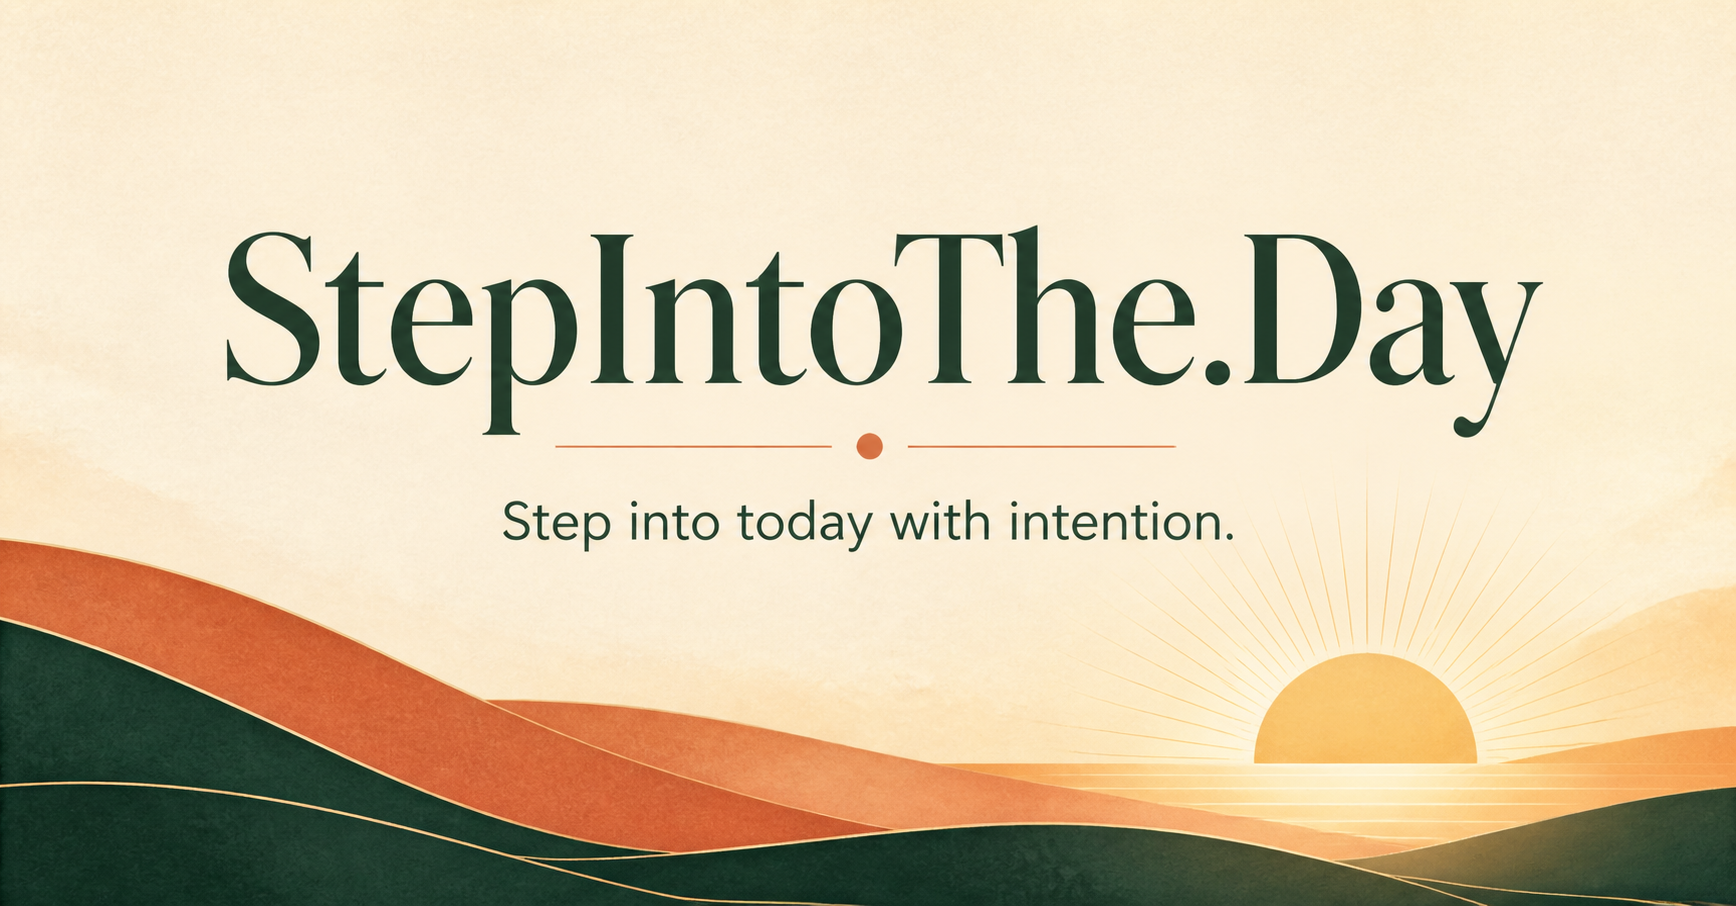
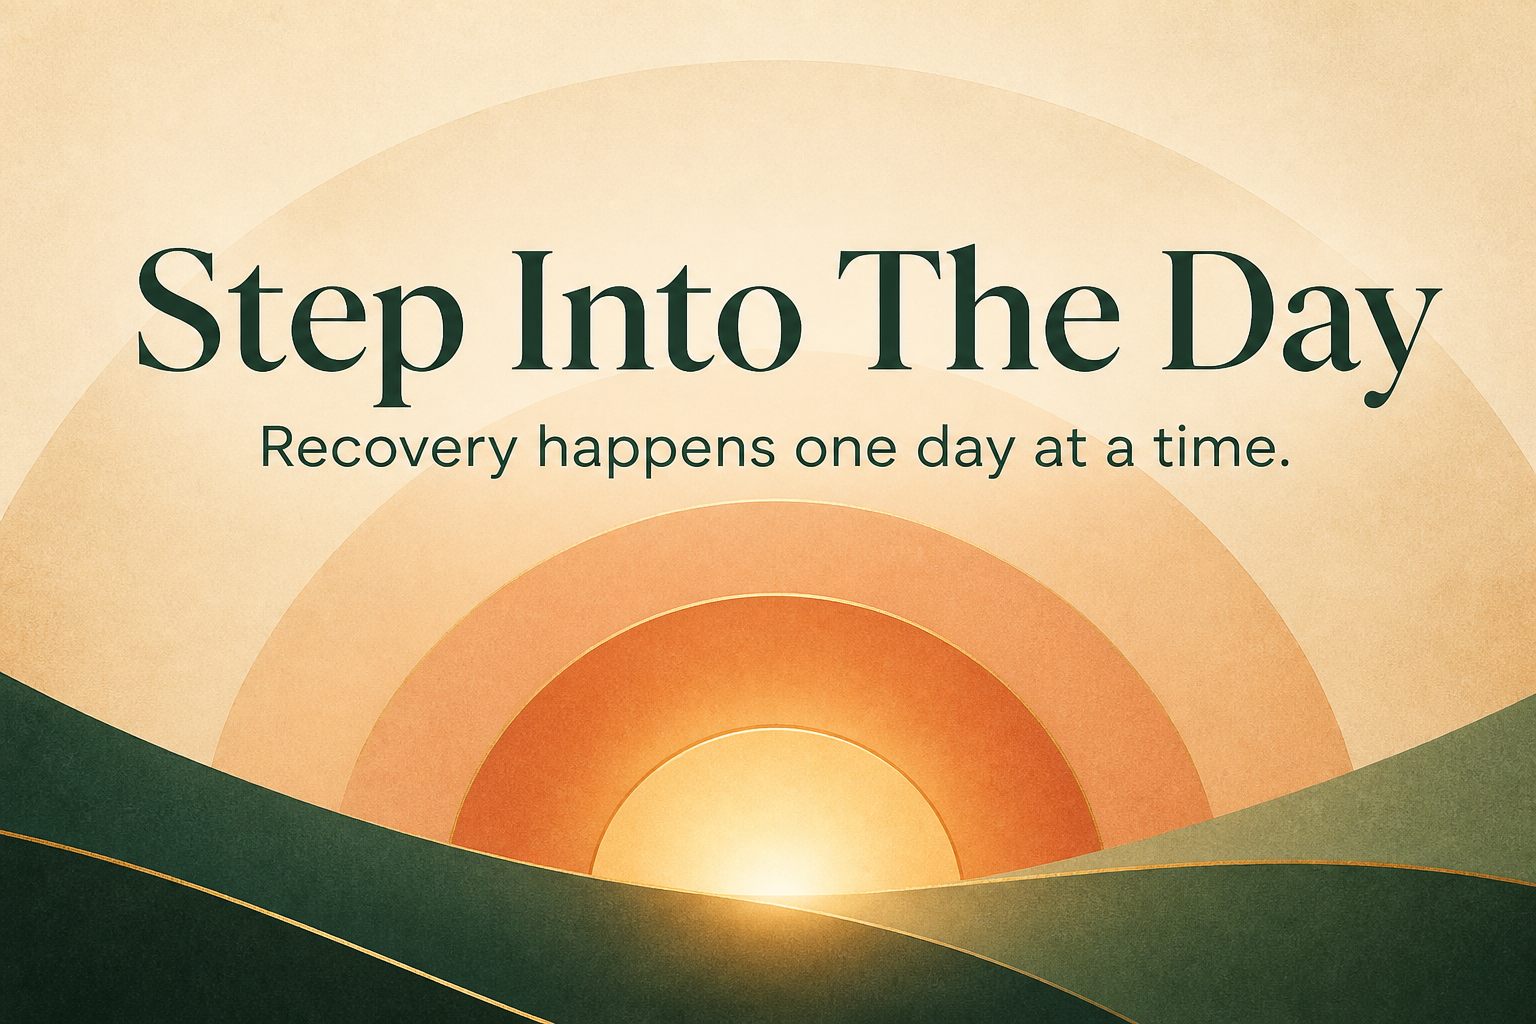
Refocus site for Step Into The Day AA group

diff --git a/app/page.tsx b/app/page.tsx
@@ -1,39 +1,93 @@
-import { ArrowRight, Check, Coffee, Moon, Sparkles, Sun } from 'lucide-react';
+import { ArrowRight, Coffee, Heart, ShieldCheck, Sun, Users } from 'lucide-react';
 
-const steps = [
-  { icon: Sun, label: 'Morning', title: 'Choose your direction', copy: 'Name the one thing that would make today feel meaningful.' },
-  { icon: Coffee, label: 'Midday', title: 'Protect your attention', copy: 'Make space for focused work, a real break, and the people who matter.' },
-  { icon: Moon, label: 'Evening', title: 'Close the loop', copy: 'Notice what moved forward and let the rest wait for tomorrow.' },
+const welcomePoints = [
+  {
+    icon: Heart,
+    title: 'Come as you are',
+    copy: 'There is no judgment and no requirement to have everything figured out. The only requirement for membership is a desire to stop drinking.',
+  },
+  {
+    icon: Users,
+    title: 'Share or simply listen',
+    copy: 'You are welcome to introduce yourself, share what is on your mind, or quietly listen. There is no pressure to speak.',
+  },
+  {
+    icon: ShieldCheck,
+    title: 'Anonymity and respect',
+    copy: 'Who you see and what you hear stays with the group. We protect one another’s privacy and make room for every voice.',
+  },
 ];
 
 export default function Home() {
   return (
     <main>
       <nav className="nav-shell" aria-label="Main navigation">
-        <a className="brand" href="#top" aria-label="StepIntoThe.Day home"><span className="brand-mark"><Sun size={19} strokeWidth={2.4} /></span><span>StepIntoThe.Day</span></a>
-        <a className="nav-link" href="#practice">The practice</a>
+        <a className="brand" href="#top" aria-label="Step Into The Day home">
+          <span className="brand-mark"><Sun size={19} strokeWidth={2.4} /></span>
+          <span>Step Into The Day</span>
+        </a>
+        <div className="nav-links">
+          <a href="#welcome">Welcome</a>
+          <a href="#newcomers">Newcomers</a>
+        </div>
       </nav>
+
       <section id="top" className="hero">
         <div className="sun-glow" aria-hidden="true" />
-        <div className="eyebrow"><Sparkles size={15} /> A gentler way to begin</div>
-        <h1>Don’t just start the day.<br /><em>Step into it.</em></h1>
-        <p className="hero-copy">A simple daily rhythm for choosing what matters, moving with intention, and ending the day with a little more peace.</p>
-        <a className="primary-button" href="#practice">Begin today <ArrowRight size={18} /></a>
-        <div className="daily-card" aria-label="Today's intention">
-          <div className="card-topline"><span>Today’s intention</span><span className="date">One day at a time</span></div>
-          <p>“Move slowly enough to notice where you’re going.”</p>
-          <div className="check-line"><span><Check size={14} /></span> Make room for what matters</div>
+        <div className="eyebrow"><Coffee size={15} /> An Alcoholics Anonymous group</div>
+        <h1>Recovery happens<br /><em>one day at a time.</em></h1>
+        <p className="hero-copy">
+          Step Into The Day is a welcoming AA group where we gather in fellowship,
+          share experience, strength, and hope, and help one another stay sober today.
+        </p>
+        <a className="primary-button" href="#newcomers">New here? Start here <ArrowRight size={18} /></a>
+
+        <div className="daily-card" aria-label="Just for today">
+          <div className="card-topline"><span>Just for today</span><span className="date">Progress, not perfection</span></div>
+          <p>“I don’t have to do this alone.”</p>
+          <div className="card-note">A shared path. A new beginning. Twenty-four hours at a time.</div>
         </div>
       </section>
-      <section id="practice" className="practice">
-        <div className="section-heading"><span className="kicker">A three-part rhythm</span><h2>Meet the day where it is.</h2><p>No rigid system. Just three small moments to help you move through the day on purpose.</p></div>
+
+      <section id="welcome" className="welcome-band">
+        <div>
+          <span className="kicker">You are welcome here</span>
+          <h2>A place to begin the day in fellowship.</h2>
+        </div>
+        <p>
+          Whether this is your first meeting, your first day back, or one more day in a long recovery,
+          there is a seat for you. We meet as equals and support each other in living sober.
+        </p>
+      </section>
+
+      <section id="newcomers" className="newcomers">
+        <div className="section-heading">
+          <span className="kicker">Your first meeting</span>
+          <h2>What you can expect.</h2>
+          <p>You do not need to register, pay dues, or bring anything. Just show up.</p>
+        </div>
         <div className="steps-grid">
-          {steps.map(({ icon: Icon, label, title, copy }, index) => (
-            <article className="step-card" key={label}><div className="step-number">0{index + 1}</div><div className="step-icon"><Icon size={22} /></div><span>{label}</span><h3>{title}</h3><p>{copy}</p></article>
+          {welcomePoints.map(({ icon: Icon, title, copy }, index) => (
+            <article className="step-card" key={title}>
+              <div className="step-number">0{index + 1}</div>
+              <div className="step-icon"><Icon size={22} /></div>
+              <h3>{title}</h3>
+              <p>{copy}</p>
+            </article>
           ))}
         </div>
       </section>
-      <footer><a className="brand footer-brand" href="#top"><span className="brand-mark"><Sun size={17} /></span>StepIntoThe.Day</a><p>Start where you are. Take the next kind step.</p></footer>
+
+      <section className="closing">
+        <Sun size={28} />
+        <h2>You never have to take the next step alone.</h2>
+        <p>If you think you may have a problem with alcohol, you are welcome at an AA meeting.</p>
+      </section>
+
+      <footer>
+        <a className="brand footer-brand" href="#top"><span className="brand-mark"><Sun size={17} /></span>Step Into The Day</a>
+        <p>An independent Alcoholics Anonymous group.</p>
+      </footer>
     </main>
   );
 }

diff --git a/app/globals.css b/app/globals.css
@@ -10,7 +10,9 @@ a { color:inherit; text-decoration:none; }
 .nav-shell { height:82px; max-width:1180px; margin:auto; padding:0 28px; display:flex; align-items:center; justify-content:space-between; position:relative; z-index:2; }
 .brand { display:flex; align-items:center; gap:10px; font-weight:700; letter-spacing:-.03em; }
 .brand-mark { width:34px; height:34px; display:grid; place-items:center; border-radius:50%; color:#fff9ee; background:var(--primary); }
-.nav-link { font-size:14px; font-weight:650; border-bottom:1px solid #829187; padding-bottom:3px; }
+.nav-links { display:flex; align-items:center; gap:28px; font-size:14px; font-weight:650; }
+.nav-links a { border-bottom:1px solid transparent; padding-bottom:3px; }
+.nav-links a:hover { border-color:#829187; }
 .hero { min-height:720px; padding:94px 24px 76px; text-align:center; position:relative; overflow:hidden; }
 .sun-glow { position:absolute; width:640px; height:640px; border-radius:50%; background:radial-gradient(circle,#f1c986 0%,#f5dab0 28%,rgba(247,242,232,0) 70%); top:-250px; left:calc(50% - 320px); opacity:.76; pointer-events:none; }
 .eyebrow { position:relative; display:inline-flex; align-items:center; gap:7px; color:#a64c31; font-size:12px; font-weight:750; text-transform:uppercase; letter-spacing:.16em; }
@@ -25,7 +27,11 @@ h1 em { color:var(--primary); font-weight:500; }
 .daily-card>p { margin:18px 0 20px; font-family:var(--font-serif),serif; font-size:22px; line-height:1.45; }
 .check-line { border-top:1px solid #e3dccd; padding-top:17px; display:flex; align-items:center; gap:10px; color:#60736a; font-size:13px; }
 .check-line span { width:24px; height:24px; border-radius:50%; display:grid; place-items:center; background:#e5eee5; color:#41654f; }
-.practice { background:#20372f; color:#f9f2e5; padding:110px 28px 120px; }
+.card-note { border-top:1px solid #e3dccd; padding-top:17px; color:#60736a; font-size:13px; }
+.welcome-band { max-width:1120px; margin:auto; padding:110px 28px; display:grid; grid-template-columns:1.05fr .95fr; align-items:end; gap:90px; }
+.welcome-band h2 { color:var(--foreground); margin-bottom:0; }
+.welcome-band>p { color:#61756c; font-size:17px; line-height:1.8; margin:0 0 8px; }
+.newcomers { background:#20372f; color:#f9f2e5; padding:110px 28px 120px; }
 .section-heading { max-width:680px; margin:0 auto 60px; text-align:center; }
 .kicker { color:#efaa76; text-transform:uppercase; font-size:11px; font-weight:750; letter-spacing:.18em; }
 h2 { margin:18px 0; font-family:var(--font-serif),serif; font-size:clamp(38px,5vw,60px); font-weight:500; letter-spacing:-.045em; }
@@ -37,8 +43,12 @@ h2 { margin:18px 0; font-family:var(--font-serif),serif; font-size:clamp(38px,5v
 .step-card>span { color:#f3b17e; font-size:11px; font-weight:750; text-transform:uppercase; letter-spacing:.15em; }
 .step-card h3 { margin:12px 0; font-family:var(--font-serif),serif; font-size:25px; font-weight:500; }
 .step-card p { color:#afbeb5; line-height:1.65; font-size:14px; }
+.closing { padding:115px 28px; text-align:center; color:var(--foreground); }
+.closing>svg { color:var(--primary); }
+.closing h2 { max-width:720px; margin:20px auto 15px; }
+.closing p { color:#64776e; font-size:16px; }
 footer { min-height:180px; padding:44px 28px; display:flex; align-items:center; justify-content:space-between; max-width:1180px; margin:auto; }
 footer p { color:#708078; font-family:var(--font-serif),serif; font-style:italic; }
 .footer-brand { font-size:14px; }
-@media (max-width:760px) { .hero{padding-top:70px;min-height:650px}.daily-card{padding:22px;margin-top:50px}.steps-grid{grid-template-columns:1fr}.step-card{min-height:270px}footer{flex-direction:column;justify-content:center;gap:20px;text-align:center} }
+@media (max-width:760px) { .nav-links{display:none}.hero{padding-top:70px;min-height:650px}.daily-card{padding:22px;margin-top:50px}.welcome-band{grid-template-columns:1fr;gap:30px;padding:80px 28px}.steps-grid{grid-template-columns:1fr}.step-card{min-height:270px}footer{flex-direction:column;justify-content:center;gap:20px;text-align:center} }
 @media (prefers-reduced-motion:reduce) { html{scroll-behavior:auto}.primary-button{transition:none} }

diff --git a/app/layout.tsx b/app/layout.tsx
@@ -6,17 +6,17 @@ const sans = DM_Sans({ variable: '--font-sans', subsets: ['latin'] });
 const serif = Lora({ variable: '--font-serif', subsets: ['latin'], style: ['normal', 'italic'] });
 
 export const metadata: Metadata = {
-  title: 'StepIntoThe.Day',
-  description: 'A simple daily rhythm for moving through your day with intention.',
+  title: 'Step Into The Day | Alcoholics Anonymous Group',
+  description: 'A welcoming Alcoholics Anonymous group sharing experience, strength, and hope—one day at a time.',
   openGraph: {
-    title: 'StepIntoThe.Day',
-    description: 'Step into today with intention.',
+    title: 'Step Into The Day | AA Group',
+    description: 'Recovery happens one day at a time.',
     images: ['https://raw.githubusercontent.com/DBNinjaUS/StepIntoThe.Day/main/public/og.png'],
   },
   twitter: {
     card: 'summary_large_image',
-    title: 'StepIntoThe.Day',
-    description: 'Step into today with intention.',
+    title: 'Step Into The Day | AA Group',
+    description: 'Recovery happens one day at a time.',
     images: ['https://raw.githubusercontent.com/DBNinjaUS/StepIntoThe.Day/main/public/og.png'],
   },
 };
